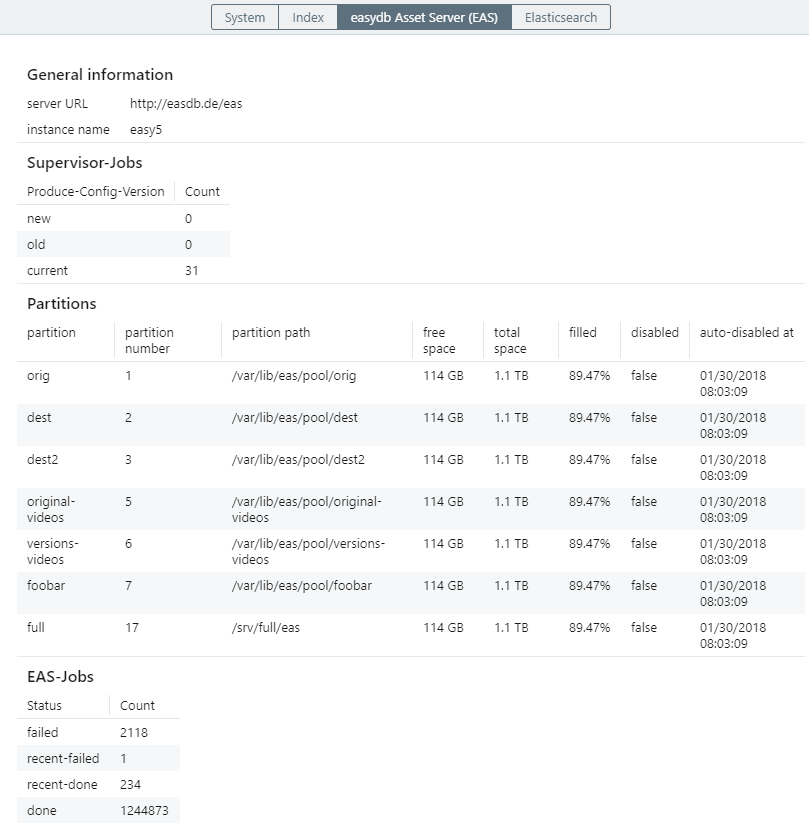
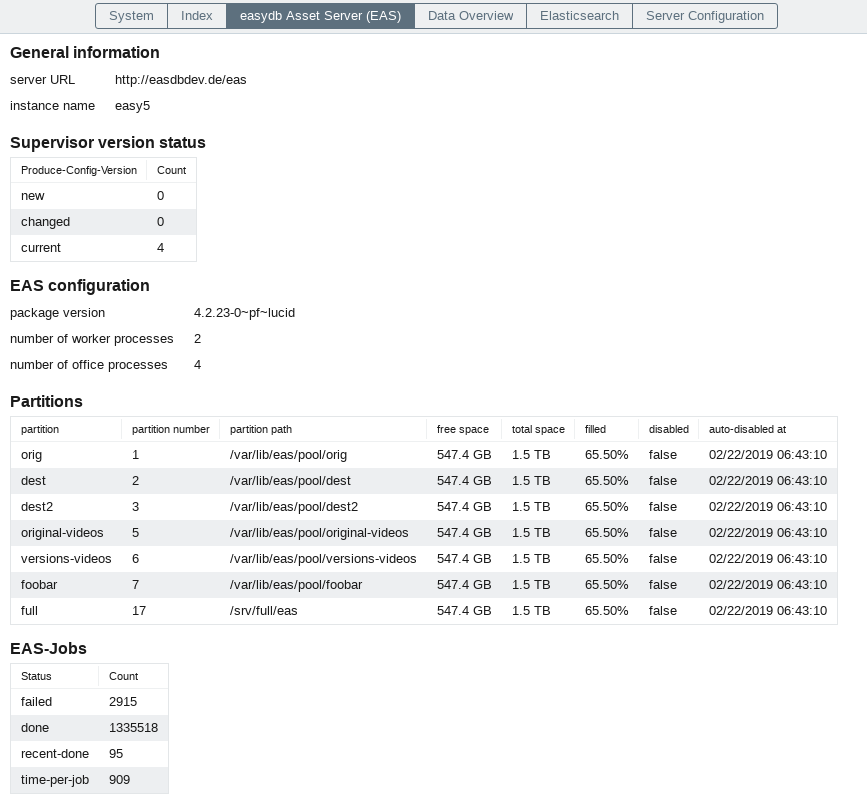
updated documentation for servermanager plugin

diff --git a/content/webfrontend/administration/server-status/_index.md b/content/webfrontend/administration/server-status/_index.md
@@ -10,9 +10,54 @@ menu:
 
 ## System
 
-Übersicht über allgemeine Informationen zum Status des Systems, wie Uptime, API-Version, Software-Version und OS-Version.
+![](header_de.png)
 
-![](status_system.png)
+### Allgemeine Information
+
+- Uptime
+- API-Version
+- Software-Version
+- OS-Version
+
+### Anzahl CPUs
+
+- Logische CPUs
+- Physische CPUs
+
+### CPU Nutzung
+
+Übersicht über die CPU-Nutzung und -zeiten für `user` und `system`, sowie den Leerlauf (`idle`) der CPUs
+
+![](cpu_usage.png)
+
+### Arbeitsspeicher (RAM)
+
+Übersicht über die Arbeitsspeichernutzung des Systems
+
+- Gesamter Speicher
+- Genutzter Speicher
+- Verfügbarer Speicher
+- Freier Speicher
+- Aktiver Speicher
+- Inaktiver Speicher
+- Speicher im Cache
+- Geteilter Speicher
+- Auslastung
+
+### Swapspeicher
+
+Übersicht über die Swapspeichernutzung des Systems
+
+- Gesamter Speicher
+- Genutzter Speicher
+- Freier Speicher
+- Auslastung
+
+### Partitionen und Festplattenspeicher
+
+Übersicht über die Partitionen und die Festplattennutzung des Systems
+
+![](disk_usage.png)
 
 ## Index
 
@@ -20,14 +65,51 @@ menu:
 
 ![](status_index.png)
 
-## easydb Asset Server (EAS)
+## easydb AssetServer (EAS)
 
 Übersicht über den Status des Asset-Servers.
 
 ![](status_eas.png)
+
+### Hinweise:
+
+#### Supervisor Versionsstatus
+
+- `new`: Anzahl der Assets, für die Berechnung der Versionen noch aussteht
+- `changed`: Anzahl der Assets, für die neu hinzugekommene Berechnungen der Versionen noch ausstehen
+- `current`: Anzahl der Assets, für die aktuell alle Versionen berechnet wurden
+
+#### EAS-Jobs:
+
+- `recent-*`: "recent" steht für den Zeitraum innerhalb der letzten 24 Stunden
+- `time-per-job`: durchschnittliche Berechnungsdauer pro Asset in Sekunden. Basierend auf der Anzahl der Assets, die innerhalb der letzten 24 Stunden berechnet wurden (`recent-done`). Dieser Wert kann durch das 24-Stunden-Zeitfenster verfälscht werden, wenn die gesamte Berechnung einer großen Menge an Assets vor weniger als 24 Stunden gestartet wurde.
+
+## Datenübersicht
+
+### Objekttypen
+
+Liste der Objekttypen, sowie der Anzahl der Objekte vom jeweiligen Objekttyp. Absteigend nach der Anzahl sortiert.
+
+### Assets
+
+Liste der Assets im System. Gruppiert nach Dateiklasse, MIME Typ und Erweiterung. Absteigend nach der Anzahl der Assets in der jeweiligen Gruppe sortiert.
+
+### Sprachen
+
+Liste der konfigurierten Datenbanksprachen, Frontendsprachen und Sprachen für die Autovervollständigung (Suggest), die aktuell in der [Basiskonfiguration](../base-config/general/#sprachen) aktiviert sind.
+
+### Verlauf von Anmeldungen und Suchanfragen
+
+Akkumulierte Anzahl von Anmeldungen (login events) und Suchanfragen (search events) über die Zeiträume innerhalb der letzten Stunde, der letzten 24 Stunden, der letzten Woche und des letzten Monats. In diesen Zeiträumen sind ebenfalls alle Events aller jeweils kleineren Zeiträume enthalten.
+
+> Diese Events können nur angezeigt werden, wenn die Eventtypen in der [Basiskonfiguration](../base-config/event_logging/#benutzer-aktivität-loggen) aktiviert wurden!
 
 ## Elasticsearch
 
 Übersicht über allgemeine Informationen zum Status der Elasticsearch, wie Server-URL, Indexname, Cluster-Name, Cluster-Status und Verbindungsfehler.
 
 ![](status_search.png)
+
+## Server-Konfiguration
+
+Diese Übersicht zeigt die gesamte [System-Konfiguration](../../../sysadmin/konfiguration/easydb-server.yml/). Die Übersicht wird nach den Unterknoten von `system` gruppiert.

diff --git a/content/webfrontend/administration/server-status/_index.en.md b/content/webfrontend/administration/server-status/_index.en.md
@@ -10,9 +10,54 @@ menu:
 
 ## System
 
-Overview of general information about the status of the system, such as Uptime, API version, software version and OS version.
+![](header_en.png)
 
-![](status_system.png)
+### General information
+
+- uptime
+- API version
+- software version
+- OS version
+
+### Number of CPUs
+
+- Logical
+- Physical
+
+### CPU Usage
+
+Shows CPU usage and times for `user` and `system`, as well as idle time and usage
+
+![](cpu_usage.png)
+
+### Memory (RAM)
+
+Shows the memory usage of the system
+
+- Total Memory
+- Used Memory
+- Available Memory
+- Free Memory
+- Active Memory
+- Inactive Memory
+- Cached Memory
+- Shared Memory
+- Load
+
+### Swap Memory
+
+Shows the swap memory usage of the system
+
+- Total Memory
+- Used Memory
+- Free Memory
+- Available Memory
+
+### Partitions and Disk Usage
+
+Shows the disk usage and the partitions on the system
+
+![](disk_usage.png)
 
 ## Index
 
@@ -26,8 +71,46 @@ Overview of the status of the asset server.
 
 ![](status_eas.png)
 
+### Notes:
+
+#### Supervisor version status
+
+- `new`: number of assets where no versions have yet been produced, which are pending
+- `changed`: number of assets where new versions have to be produced, which are pending
+- `current`: number of assets where currently all versions have been produced
+
+#### EAS-Jobs:
+
+- `recent-*`: recent means during a rolling time window over the last 24 hours
+- `time-per-job`: based on the number of `recent-done` assets, the average processing time per asset (in seconds) over the last 24 hours is calculated. This number may be misleading if a batch of asset processing has been started less than 24 hours ago
+
+
+## Data Overview
+
+### Object Types
+
+List of objecttypes in the system and how many objects of this objecttype exist. Ordered by the number of objects.
+
+### Assets
+
+List of assets in the system. Grouped by fileclass, MIME type and extension and ordered by number of assets of this group.
+
+### Languages
+
+List of configured database languages, frontend languages and autocompletion (suggest) languages, that are currently activated in the [base configuration](../base-config/general/#languages).
+
+### Logins / search requests over time
+
+Accumulated number of login and search events over the last hour, the last 24 hours, the last week and the last month. Please note that each time period also includes all events in the shorter periods.
+
+> These events can only be counted if logging of these event types has been activated in the [base configuration](../base-config/event_logging/#log-user-activity)!
+
 ## Elasticsearch
 
 Overview of general information about the status of the ElasticSearch, such as the server URL, index name, cluster name, cluster status, and connection error.
 
 ![](status_search.png)
+
+## Server Configuration
+
+This overview shows the complete [system configuration](../../../sysadmin/konfiguration/easydb-server.yml/). The Configuration is grouped by the subnodes of `system`.
